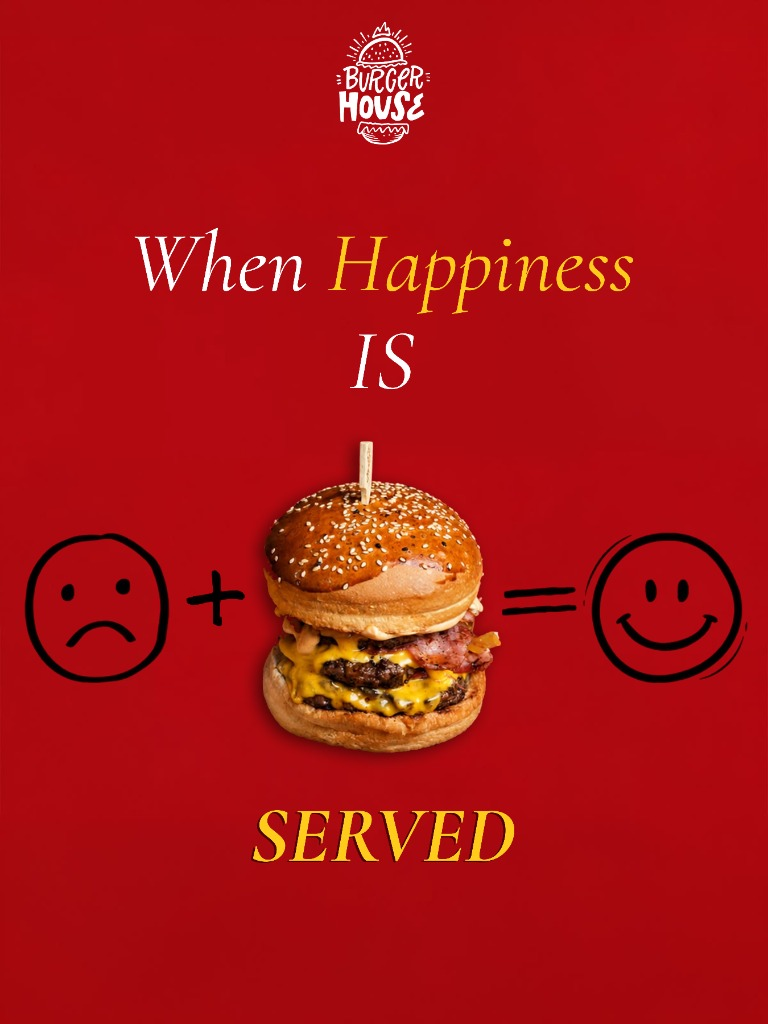
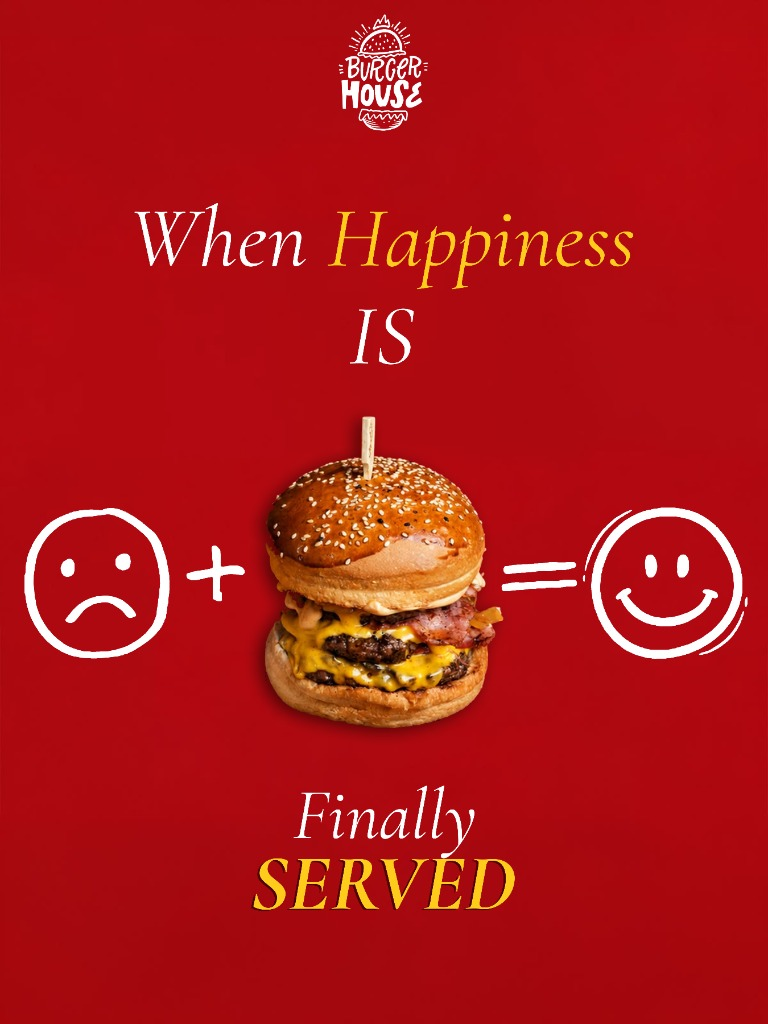
Update Burger House poster to Finally SERVED variant

diff --git a/index.html b/index.html
@@ -19,7 +19,7 @@
 <link rel="preload" as="image" href="images/smartcv-homepage.jpg?v=2" fetchpriority="high">
 <!-- Preload poster images so carousel switches instantly without lag -->
 <link rel="preload" as="image" href="images/poster-dont-be-hard-on-yourself.jpg" fetchpriority="high">
-<link rel="preload" as="image" href="images/poster-burger-house.jpg" fetchpriority="high">
+<link rel="preload" as="image" href="images/poster-burger-house.jpg?v=2" fetchpriority="high">
 <link rel="preload" as="image" href="images/poster-chaos-to-clarity.jpg" fetchpriority="high">
 <!-- Prefetch inactive videos in background so switching is much faster -->
 <link rel="prefetch" as="video" href="videos/video-edit-2.mp4?v=6">
@@ -2994,8 +2994,8 @@ figcaption { font-size: 0.92rem; color: var(--mut); margin-top: 10px; }
 
         <!-- Poster 2: Burger House -->
         <div class="poster-card">
-          <div class="poster-thumb graphic-item" data-src="images/poster-burger-house.jpg" data-alt="Burger House - When Happiness Is Served Concept Poster">
-            <img src="images/poster-burger-house.jpg" alt="Burger House - When Happiness Is Served Concept Poster" loading="eager" decoding="async">
+          <div class="poster-thumb graphic-item" data-src="images/poster-burger-house.jpg?v=2" data-alt="Burger House - When Happiness Is Finally Served Concept Poster">
+            <img src="images/poster-burger-house.jpg?v=2" alt="Burger House - When Happiness Is Finally Served Concept Poster" loading="eager" decoding="async">
             <div class="graphic-item-overlay">View Full Res ↗</div>
           </div>
           <div class="poster-info">
@@ -3003,7 +3003,7 @@ figcaption { font-size: 0.92rem; color: var(--mut); margin-top: 10px; }
               <span class="poster-tag">Brand Campaign</span>
               <span class="poster-count">02 / 03</span>
             </div>
-            <h3 class="poster-card-title">Burger House: When Happiness Is Served</h3>
+            <h3 class="poster-card-title">Burger House: When Happiness Is Finally Served</h3>
             <p class="poster-card-desc">Playful, formula-driven food campaign poster transforming a bad mood into happiness through delicious craft burgers.</p>
           </div>
         </div>
@@ -4374,7 +4374,7 @@ document.addEventListener('click', function(e) {
 
 // Preload all poster images into memory immediately so lightbox view is instant
 (function() {
-  ['images/poster-dont-be-hard-on-yourself.jpg', 'images/poster-burger-house.jpg', 'images/poster-chaos-to-clarity.jpg'].forEach(function(src) {
+  ['images/poster-dont-be-hard-on-yourself.jpg', 'images/poster-burger-house.jpg?v=2', 'images/poster-chaos-to-clarity.jpg'].forEach(function(src) {
     var pre = new Image();
     pre.src = src;
   });
